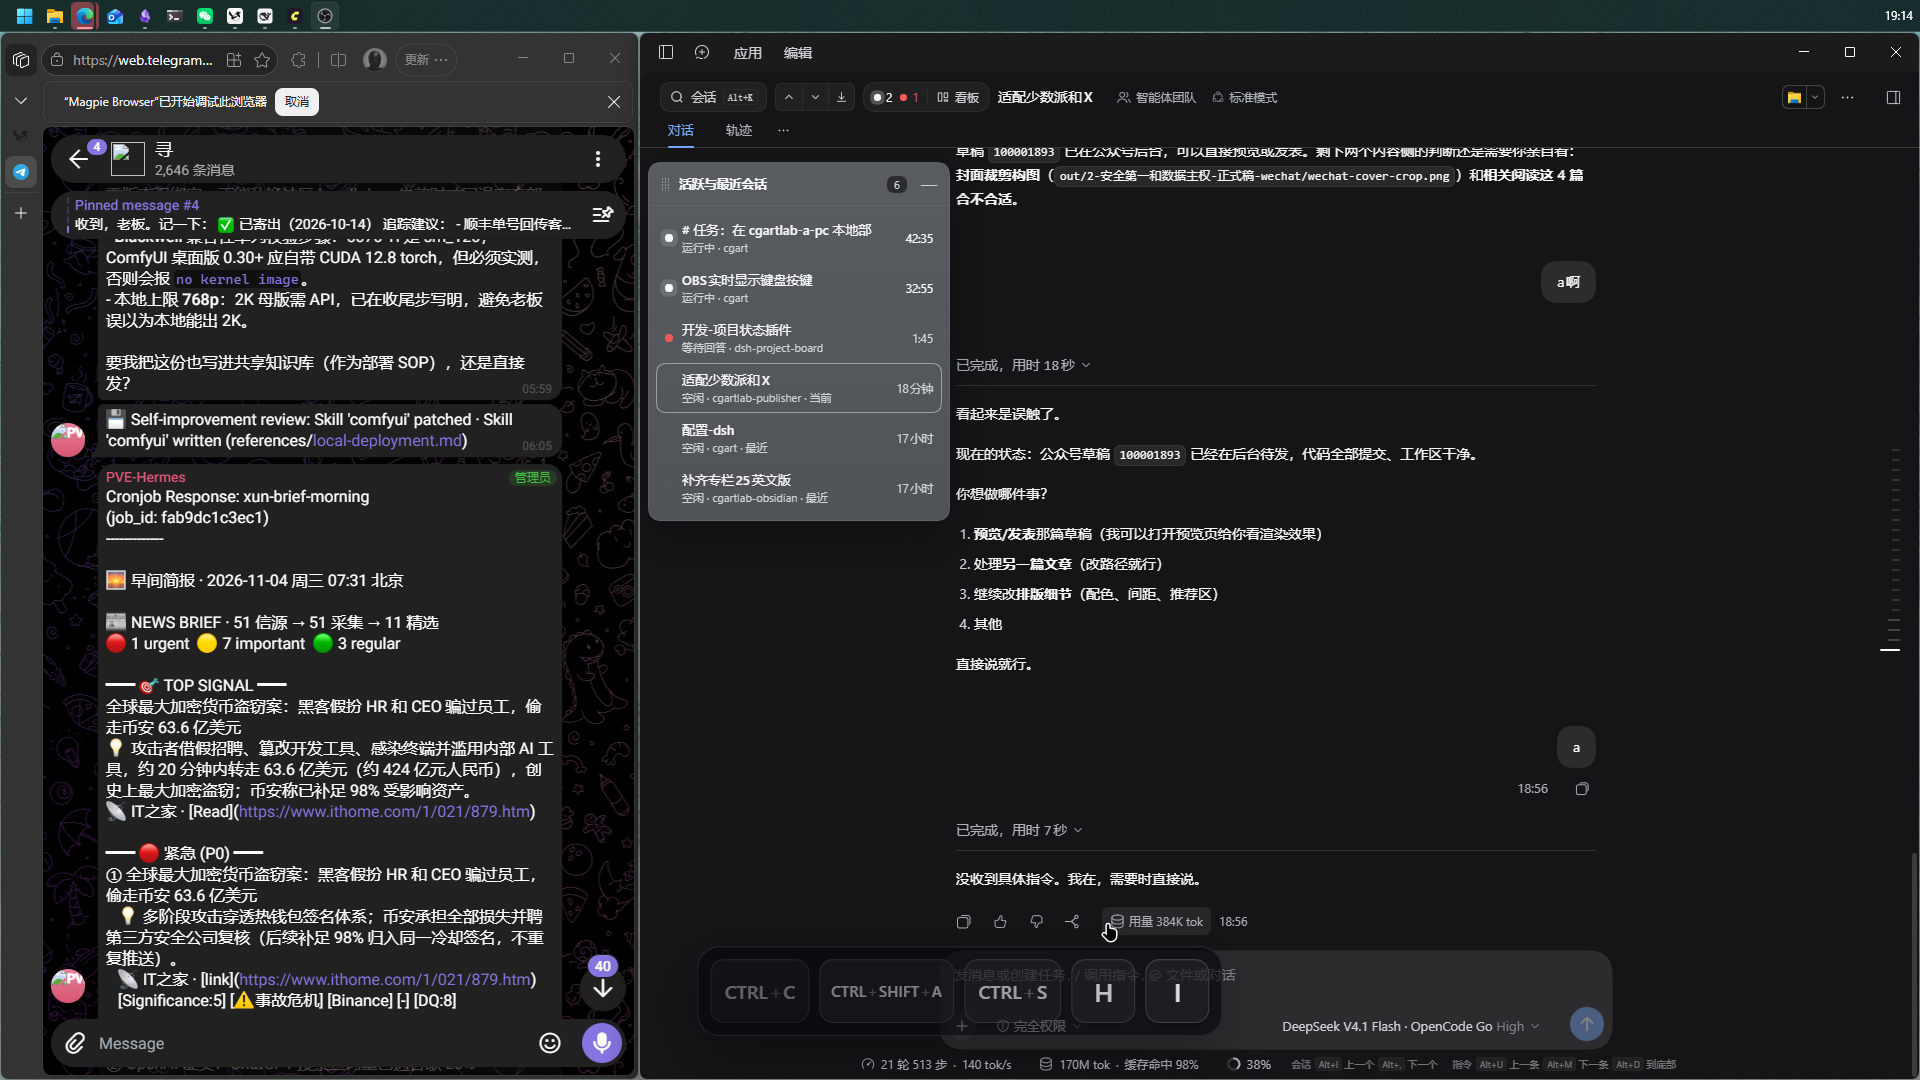
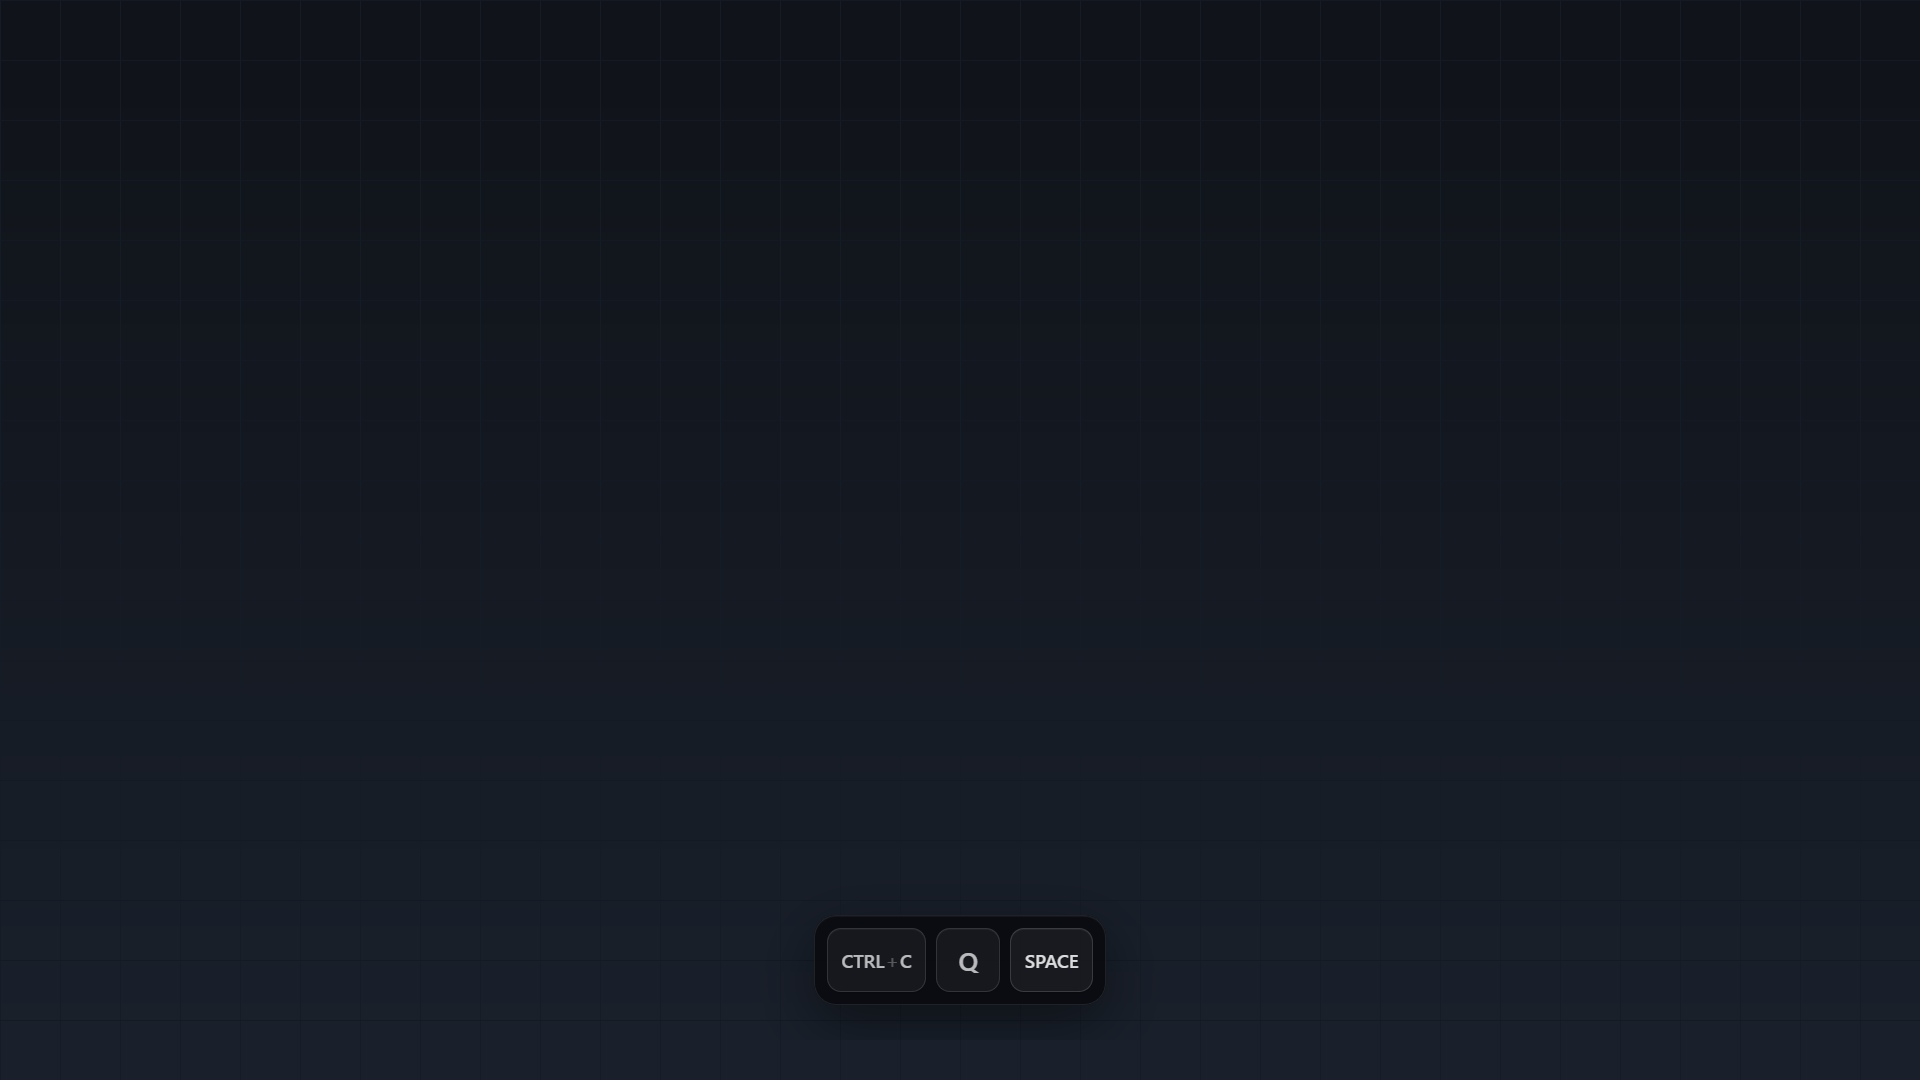
docs: 预览图换成合成示意图（不含真实桌面内容），图注同步

diff --git a/README.md b/README.md
@@ -4,7 +4,7 @@
 
 ![OBS 内实拍](assets/preview.png)
 
-*上图为 OBS 场景实拍：底部一条玻璃胶囊显示最近按键，组合键合并为 `CTRL+C` 形式，按住中的键变白。*
+*示意图：底部一条玻璃胶囊显示最近按键，组合键合并为 `CTRL+C` 形式；默认是未锁定的紧凑部件源，可直接用鼠标拖动。*
 
 **English** — A local keystroke overlay for OBS Studio on Windows. A low-level keyboard hook
 streams key events over Server-Sent Events; OBS renders them with a built-in Browser source.
